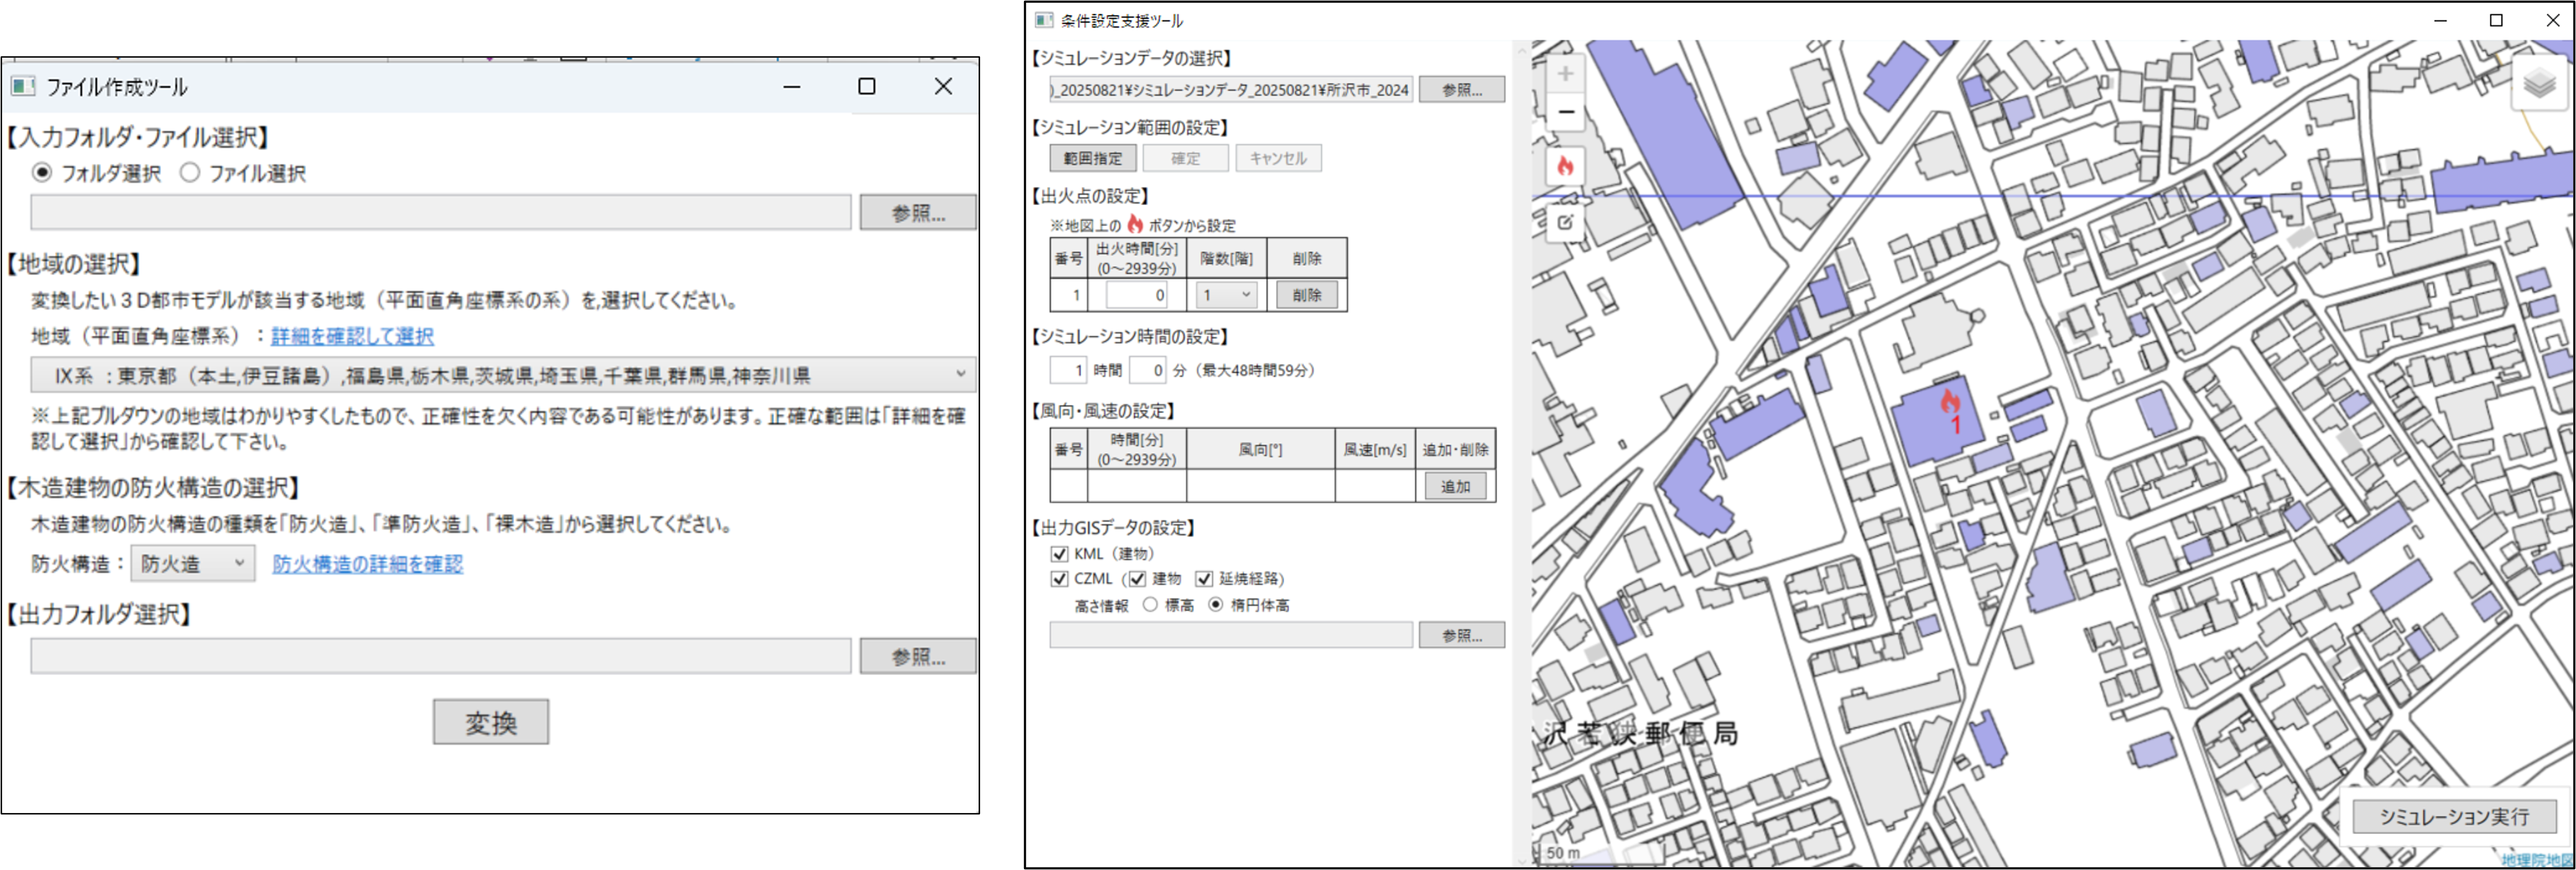
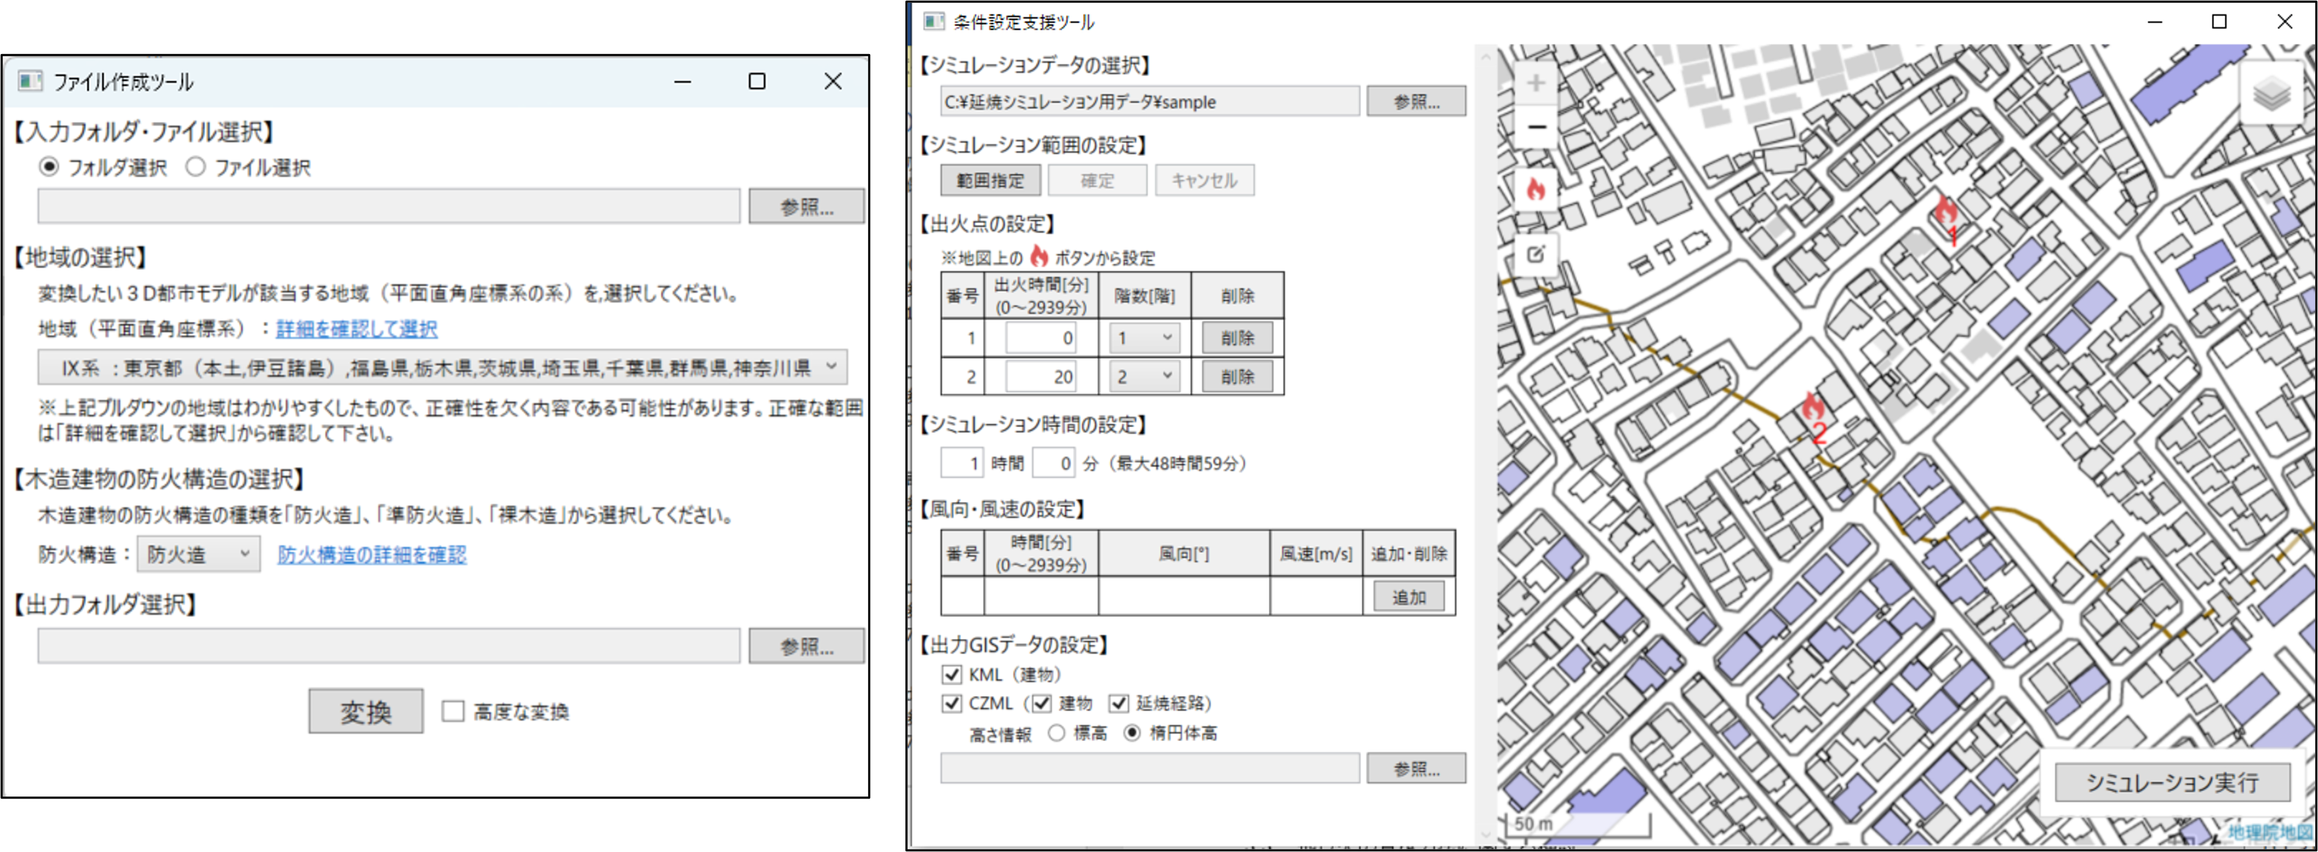
Add files via upload

diff --git a/README.md b/README.md
@@ -113,12 +113,19 @@
 | Src\UnitTest| 単体テストプロジェクト |
 
 ## 8. ライセンス <!-- 変更せず、そのまま使うこと。 -->
+- ソースコード及び関連ドキュメントの著作権は国土交通省に帰属します
+- 本システムの開発にあたっては国総研市街地延焼シミュレーションプログラムの「防火属性付加ツール」を参考にして開発しています
+- 本システムの開発にあたっては国総研市街地延焼シミュレーションプログラムの「シミュレーション用データ変換ツール」を、以下の改変を行い、実行形式ファイル化して使用しています
+  - 座標の一覧（gml:posList）の最初と最後に空白が付与されている場合のエラー処理対応
+  - 複雑なLOD2建物のスライスを処理をする際にポリゴンの点が4つ未満（3つ以下）になってしまった場合のエラー処理対応
+  - 複雑なLOD2建物ののスライスを処理をする際の内外判定で「空白」が返ってきた場合のエラー処理対応
+  - シミュレーション用データ変換ツール内で使用しているライブラリのバージョンアップに伴う対応
 
-- ソースコード及び関連ドキュメントの著作権は国土交通省に帰属します。
-- 本システムの開発にあたっては国総研市街地延焼シミュレーションプログラムの「防火属性付加ツール」を参考にして開発しています。
-- 本システムの開発にあたっては国総研市街地延焼シミュレーションプログラムの「シミュレーション用データ変換ツール」を一部改変し、実行形式ファイル化して使用しています。
-- 国総研市街地延焼シミュレーションプログラムの「防火属性付加ツール」及び「シミュレーション用データ変換ツール」の著作権は国土技術政策総合研究所に帰属します。
-- 本ドキュメントは[Project PLATEAUのサイトポリシー](https://www.mlit.go.jp/plateau/site-policy/)（CCBY4.0及び政府標準利用規約2.0）に従い提供されています。
+- 国総研市街地延焼シミュレーションプログラムの「防火属性付加ツール」及び「シミュレーション用データ変換ツール」の著作権は国土技術政策総合研究所に帰属します
+- 本ドキュメントは[Project PLATEAUのサイトポリシー](https://www.mlit.go.jp/plateau/site-policy/)（CCBY4.0及び政府標準利用規約2.0）
+
+
+
 
 
 
